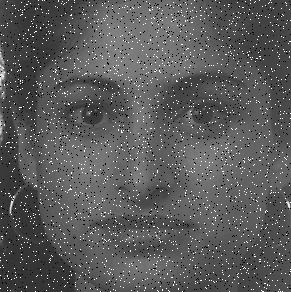
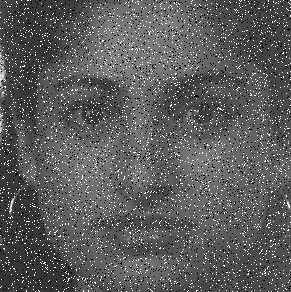
Working experiment

Changed region(s): [[0.0, 0.0, 1.0, 1.0]]

diff --git a/experiment.js b/experiment.js
@@ -12,32 +12,32 @@ var sets = {
     10: [0, 1, 2, 3, 4, 4, 3, 2, 1, 0, 0, 1, 2, 3, 4, 4, 3, 2, 1, 0]
   },
   noise: {
-    1:  ["IM", "IM", "GB", "GB", "IM", "IM", "GB", "GB", "IM", "IM", "GB", "GB", "IM", "IM", "GB", "GB", "IM", "IM", "GB", "GB"],
-    2:  ["GB", "GB", "IM", "IM", "GB", "GB", "IM", "IM", "GB", "GB", "IM", "IM", "GB", "GB", "IM", "IM", "GB", "GB", "IM", "IM"],
-    3:  ["IM", "IM", "GB", "GB", "IM", "IM", "GB", "GB", "IM", "IM", "GB", "GB", "IM", "IM", "GB", "GB", "IM", "IM", "GB", "GB"],
-    4:  ["GB", "GB", "IM", "IM", "GB", "GB", "IM", "IM", "GB", "GB", "IM", "IM", "GB", "GB", "IM", "IM", "GB", "GB", "IM", "IM"],
-    5:  ["IM", "IM", "GB", "GB", "IM", "IM", "GB", "GB", "IM", "IM", "GB", "GB", "IM", "IM", "GB", "GB", "IM", "IM", "GB", "GB"],
-    6:  ["GB", "GB", "IM", "IM", "GB", "GB", "IM", "IM", "GB", "GB", "IM", "IM", "GB", "GB", "IM", "IM", "GB", "GB", "IM", "IM"],
-    7:  ["IM", "IM", "GB", "GB", "IM", "IM", "GB", "GB", "IM", "IM", "GB", "GB", "IM", "IM", "GB", "GB", "IM", "IM", "GB", "GB"],
-    8:  ["GB", "GB", "IM", "IM", "GB", "GB", "IM", "IM", "GB", "GB", "IM", "IM", "GB", "GB", "IM", "IM", "GB", "GB", "IM", "IM"],
-    9:  ["IM", "IM", "GB", "GB", "IM", "IM", "GB", "GB", "IM", "IM", "GB", "GB", "IM", "IM", "GB", "GB", "IM", "IM", "GB", "GB"],
-    10: ["GB", "GB", "IM", "IM", "GB", "GB", "IM", "IM", "GB", "GB", "IM", "IM", "GB", "GB", "IM", "IM", "GB", "GB", "IM", "IM"],
-    11: ["IM", "IM", "GB", "GB", "IM", "IM", "GB", "GB", "IM", "IM", "GB", "GB", "IM", "IM", "GB", "GB", "IM", "IM", "GB", "GB"],
-    12: ["GB", "GB", "IM", "IM", "GB", "GB", "IM", "IM", "GB", "GB", "IM", "IM", "GB", "GB", "IM", "IM", "GB", "GB", "IM", "IM"],
-    13: ["IM", "IM", "GB", "GB", "IM", "IM", "GB", "GB", "IM", "IM", "GB", "GB", "IM", "IM", "GB", "GB", "IM", "IM", "GB", "GB"],
-    14: ["GB", "GB", "IM", "IM", "GB", "GB", "IM", "IM", "GB", "GB", "IM", "IM", "GB", "GB", "IM", "IM", "GB", "GB", "IM", "IM"],
-    15: ["IM", "IM", "GB", "GB", "IM", "IM", "GB", "GB", "IM", "IM", "GB", "GB", "IM", "IM", "GB", "GB", "IM", "IM", "GB", "GB"],
-    16: ["GB", "GB", "IM", "IM", "GB", "GB", "IM", "IM", "GB", "GB", "IM", "IM", "GB", "GB", "IM", "IM", "GB", "GB", "IM", "IM"],
-    17: ["IM", "IM", "GB", "GB", "IM", "IM", "GB", "GB", "IM", "IM", "GB", "GB", "IM", "IM", "GB", "GB", "IM", "IM", "GB", "GB"],
-    18: ["GB", "GB", "IM", "IM", "GB", "GB", "IM", "IM", "GB", "GB", "IM", "IM", "GB", "GB", "IM", "IM", "GB", "GB", "IM", "IM"],
-    19: ["IM", "IM", "GB", "GB", "IM", "IM", "GB", "GB", "IM", "IM", "GB", "GB", "IM", "IM", "GB", "GB", "IM", "IM", "GB", "GB"],
-    20: ["GB", "GB", "IM", "IM", "GB", "GB", "IM", "IM", "GB", "GB", "IM", "IM", "GB", "GB", "IM", "IM", "GB", "GB", "IM", "IM"]
+    1:  ["IN", "IN", "GB", "GB", "IN", "IN", "GB", "GB", "IN", "IN", "GB", "GB", "IN", "IN", "GB", "GB", "IN", "IN", "GB", "GB"],
+    2:  ["GB", "GB", "IN", "IN", "GB", "GB", "IN", "IN", "GB", "GB", "IN", "IN", "GB", "GB", "IN", "IN", "GB", "GB", "IN", "IN"],
+    3:  ["IN", "IN", "GB", "GB", "IN", "IN", "GB", "GB", "IN", "IN", "GB", "GB", "IN", "IN", "GB", "GB", "IN", "IN", "GB", "GB"],
+    4:  ["GB", "GB", "IN", "IN", "GB", "GB", "IN", "IN", "GB", "GB", "IN", "IN", "GB", "GB", "IN", "IN", "GB", "GB", "IN", "IN"],
+    5:  ["IN", "IN", "GB", "GB", "IN", "IN", "GB", "GB", "IN", "IN", "GB", "GB", "IN", "IN", "GB", "GB", "IN", "IN", "GB", "GB"],
+    6:  ["GB", "GB", "IN", "IN", "GB", "GB", "IN", "IN", "GB", "GB", "IN", "IN", "GB", "GB", "IN", "IN", "GB", "GB", "IN", "IN"],
+    7:  ["IN", "IN", "GB", "GB", "IN", "IN", "GB", "GB", "IN", "IN", "GB", "GB", "IN", "IN", "GB", "GB", "IN", "IN", "GB", "GB"],
+    8:  ["GB", "GB", "IN", "IN", "GB", "GB", "IN", "IN", "GB", "GB", "IN", "IN", "GB", "GB", "IN", "IN", "GB", "GB", "IN", "IN"],
+    9:  ["IN", "IN", "GB", "GB", "IN", "IN", "GB", "GB", "IN", "IN", "GB", "GB", "IN", "IN", "GB", "GB", "IN", "IN", "GB", "GB"],
+    10: ["GB", "GB", "IN", "IN", "GB", "GB", "IN", "IN", "GB", "GB", "IN", "IN", "GB", "GB", "IN", "IN", "GB", "GB", "IN", "IN"],
+    11: ["IN", "IN", "GB", "GB", "IN", "IN", "GB", "GB", "IN", "IN", "GB", "GB", "IN", "IN", "GB", "GB", "IN", "IN", "GB", "GB"],
+    12: ["GB", "GB", "IN", "IN", "GB", "GB", "IN", "IN", "GB", "GB", "IN", "IN", "GB", "GB", "IN", "IN", "GB", "GB", "IN", "IN"],
+    13: ["IN", "IN", "GB", "GB", "IN", "IN", "GB", "GB", "IN", "IN", "GB", "GB", "IN", "IN", "GB", "GB", "IN", "IN", "GB", "GB"],
+    14: ["GB", "GB", "IN", "IN", "GB", "GB", "IN", "IN", "GB", "GB", "IN", "IN", "GB", "GB", "IN", "IN", "GB", "GB", "IN", "IN"],
+    15: ["IN", "IN", "GB", "GB", "IN", "IN", "GB", "GB", "IN", "IN", "GB", "GB", "IN", "IN", "GB", "GB", "IN", "IN", "GB", "GB"],
+    16: ["GB", "GB", "IN", "IN", "GB", "GB", "IN", "IN", "GB", "GB", "IN", "IN", "GB", "GB", "IN", "IN", "GB", "GB", "IN", "IN"],
+    17: ["IN", "IN", "GB", "GB", "IN", "IN", "GB", "GB", "IN", "IN", "GB", "GB", "IN", "IN", "GB", "GB", "IN", "IN", "GB", "GB"],
+    18: ["GB", "GB", "IN", "IN", "GB", "GB", "IN", "IN", "GB", "GB", "IN", "IN", "GB", "GB", "IN", "IN", "GB", "GB", "IN", "IN"],
+    19: ["IN", "IN", "GB", "GB", "IN", "IN", "GB", "GB", "IN", "IN", "GB", "GB", "IN", "IN", "GB", "GB", "IN", "IN", "GB", "GB"],
+    20: ["GB", "GB", "IN", "IN", "GB", "GB", "IN", "IN", "GB", "GB", "IN", "IN", "GB", "GB", "IN", "IN", "GB", "GB", "IN", "IN"]
   }
 }
 
 window.set_number  = 1;
 window.step = 1;
-window.csv  = 'Набор,Номер изображения,Ответ';
+window.csv  = 'Набор,Номер изображения,Шум,Степень,Ответ';
 
 $(".set_button").on('click', function(e) {
   $(".new").addClass("hide");
@@ -58,7 +58,7 @@ $(document).on('click', ".answer img", function(e) {
 
   // Выбранный ответ
   chosen_answer = $(this).attr("data-number");
-  window.csv += "\n" + window.set_number + "," + window.step + "," + chosen_answer
+  window.csv += "\n" + window.set_number + "," + window.step + "," + current_noise() + "," + current_level() + "," + chosen_answer
 
   // Следующий шаг
   $(".answer").addClass("hide");
@@ -71,6 +71,7 @@ $(document).on('click', ".answer img", function(e) {
 $(".download_button").on("click", function(e) {
   var blob = new Blob([window.csv], {type: "text/plain;charset=utf-8"});
   saveAs(blob, "result_" + window.set_number + ".txt");
+  $(".reload_button").removeClass("hide");
 });
 
 $(".reload_button").on('click', function(e) {
@@ -80,17 +81,24 @@ $(".reload_button").on('click', function(e) {
 
   $(".thankyou").addClass("hide");
   $(".new").removeClass("hide");
+  $(".reload_button").addClass("hide");
   e.preventDefault();
 });
 
 function next_step() {
-  if(window.step < 5) {
+  if(window.step < 21) {
     // Preparation
-    $(".question img").attr("src", "images/" + window.step + "/0_" + + "_" + 0.jpg");
+    if(current_level() == 0) {
+      $(".question img").attr("src", "images/" + window.step + "/0.jpg");
+    } else {
+      $(".question img").attr("src", "images/" + window.step + "/0_" + current_noise() + "_" + current_level() + ".jpg");
+    }
+
     $(".answer img").each(function(index) {
       $(this).attr("src", "images/" + window.step + "/" + index + ".jpg");
       $(this).attr("data-number", index);
     });
+    $(".relax img").attr("src", "gifs/" + window.step + ".gif");
 
     $(".question").removeClass("hide");
 
@@ -110,9 +118,16 @@ function next_step() {
   }
 }
 
+function current_noise() {
+  return sets["noise"][window.set_number][(window.step - 1)];
+}
+
+function current_level() {
+  return sets["level"][window.set_number][(window.step - 1)];
+}
 $.fn.randomize = function(selector){
   var $elems = selector ? $(this).find(selector) : $(this).children(),
-    $parents = $elems.parent();
+  $parents = $elems.parent();
 
   $parents.each(function(){
     $(this).children(selector).sort(function(){

diff --git a/index.html b/index.html
@@ -45,7 +45,7 @@
           <p>Спасибо за участие в эксперименте. Вы нам очень помогли.</p>
           <p>
             <a href="#" class="btn btn-lg btn-primary download_button">Скачать результаты</a>
-            <a href="#" class="btn btn-lg btn-default reload_button">Новый эксперимент</a>
+            <a href="#" class="btn btn-lg btn-default reload_button hide">Новый эксперимент</a>
           </p>
         </div>
       </div>

diff --git a/styles.css b/styles.css
@@ -13,6 +13,7 @@ body {
 .answer img,
 .question img {
   height: 250px;
+  margin: 2px;
 }
 
 .answer img {
